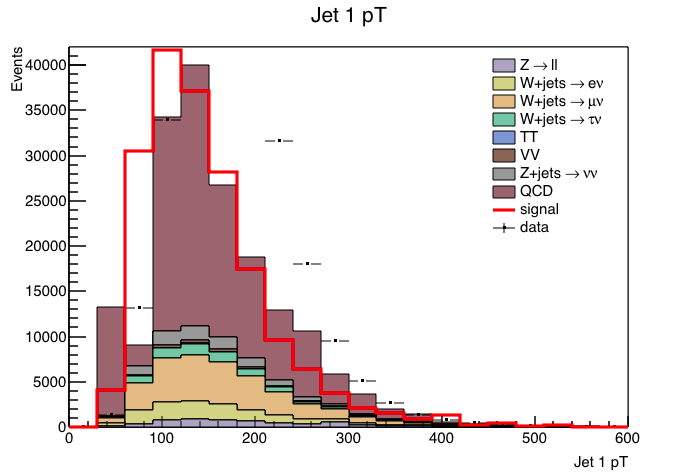
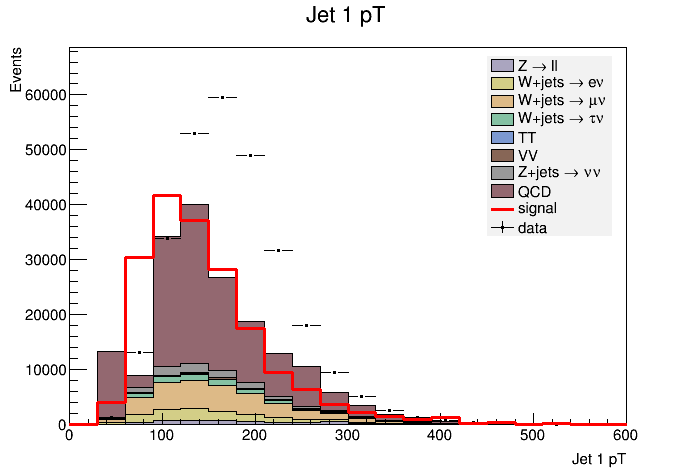
sets y axisin datachain.cpp

Changed region(s): [[0.0, 0.089, 0.9353, 1.0], [0.4224, 0.0, 0.5431, 0.0593], [0.4224, 0.5339, 0.4526, 0.5636]]

diff --git a/src/histo_plot.cpp b/src/histo_plot.cpp
@@ -22,7 +22,7 @@ void HistoPlot::draw_stacked_histo(Variable* var, std::vector<DataChain*> bg_cha
   legend->AddEntry(signal_histo, signal_chain->legend, "l");
   legend->AddEntry(data_histo, data->legend, "lep");
 
-  stack.Draw("SAME");
+  stack.Draw();
   data_histo->Draw("SAME");
   signal_histo->Draw("SAME");
 
@@ -33,9 +33,15 @@ void HistoPlot::draw_stacked_histo(Variable* var, std::vector<DataChain*> bg_cha
   //legend->SetX1(leg_coords[0]);
   //legend->SetX2(leg_coords[1]);
   legend->Draw();
+  stack.SetMaximum(set_y_max(data_histo,last_stacked));
   
   c1->SaveAs(file_name.c_str());
   c1->Close();
+}
+double HistoPlot::set_y_max(TH1F* data, TH1F* background){
+  double data_max = data->GetBinContent(data->GetMaximumBin());
+  double bg_max = background->GetBinContent(background->GetMaximumBin());
+  return std::max(data_max,bg_max)*1.1;
 }
 
 void HistoPlot::style_stacked_histo(THStack* hs, const char* x_label)
@@ -182,7 +188,7 @@ TH1F* HistoPlot::set_error_bars(TH1F* histo)
   return histo;
 }
 
-double HistoPlot::get_data_error(TH1F* histo, int bin) 
+float HistoPlot::get_data_error(TH1F* histo, int bin) 
 {
   double integral = histo->Integral(bin, bin + 1);
 

diff --git a/src/main.cpp b/src/main.cpp
@@ -17,10 +17,12 @@ void produce_graphs() {
 
   Variable* variable = new Variable("jet1_pt", "Jet 1 pT", "20", "0.0", "600.0", 
                                     "420.0", "440.0", "100");
-  std::vector<DataChain*> bg_chains = {bg_zll, bg_wjets_ev, bg_wjets_muv, bg_wjets_tauv, 
+  DataChain* bg_arr[] = {bg_zll, bg_wjets_ev, bg_wjets_muv, bg_wjets_tauv, 
                                        bg_top, bg_vv, bg_zjets_vv, bg_qcd};
+  std::vector<DataChain*> bg (bg_arr, bg_arr+ sizeof(bg_arr)/sizeof(DataChain*));
 
-  HistoPlot::draw_stacked_histo(variable, bg_chains, signal_chain, data_chain, false);
+
+  HistoPlot::draw_stacked_histo(variable, bg, signal_chain, data_chain, false);
 }
 
 int main(int argc, char** argv) {

diff --git a/include/histo_plot.h b/include/histo_plot.h
@@ -5,6 +5,7 @@
 #include <THStack.h>
 #include <TLegend.h>
 #include "variable.h"
+#include <algorithm>
 
 class HistoPlot {
 public:
@@ -17,6 +18,8 @@ public:
                                  DataChain* signal_chain, DataChain* data, bool with_cut);
 
   static void style_stacked_histo(THStack* hs, const char* x_label);
+
+  static double set_y_max(TH1F* data, TH1F* background);
 
   static void style_legend(TLegend* legend);
 
@@ -42,7 +45,7 @@ public:
   
   static TH1F* set_error_bars(TH1F* histo);
 
-  static double get_data_error(TH1F* histo, int bin);
+  static float get_data_error(TH1F* histo, int bin);
 
   static std::string build_file_name(Variable* variable, bool with_cut);
 };

diff --git a/include/data_chain.h b/include/data_chain.h
@@ -8,12 +8,14 @@
 #include <TChain.h>
 #include <TCut.h>
 #include <TH2.h>
+#include <cmath>
 
 #include <string>
 #include <iostream>
 #include <vector>
 #include <stdio.h>
 #include <sstream>
+#include <stdlib.h>
 
 class TreeLeaves {
 public:
